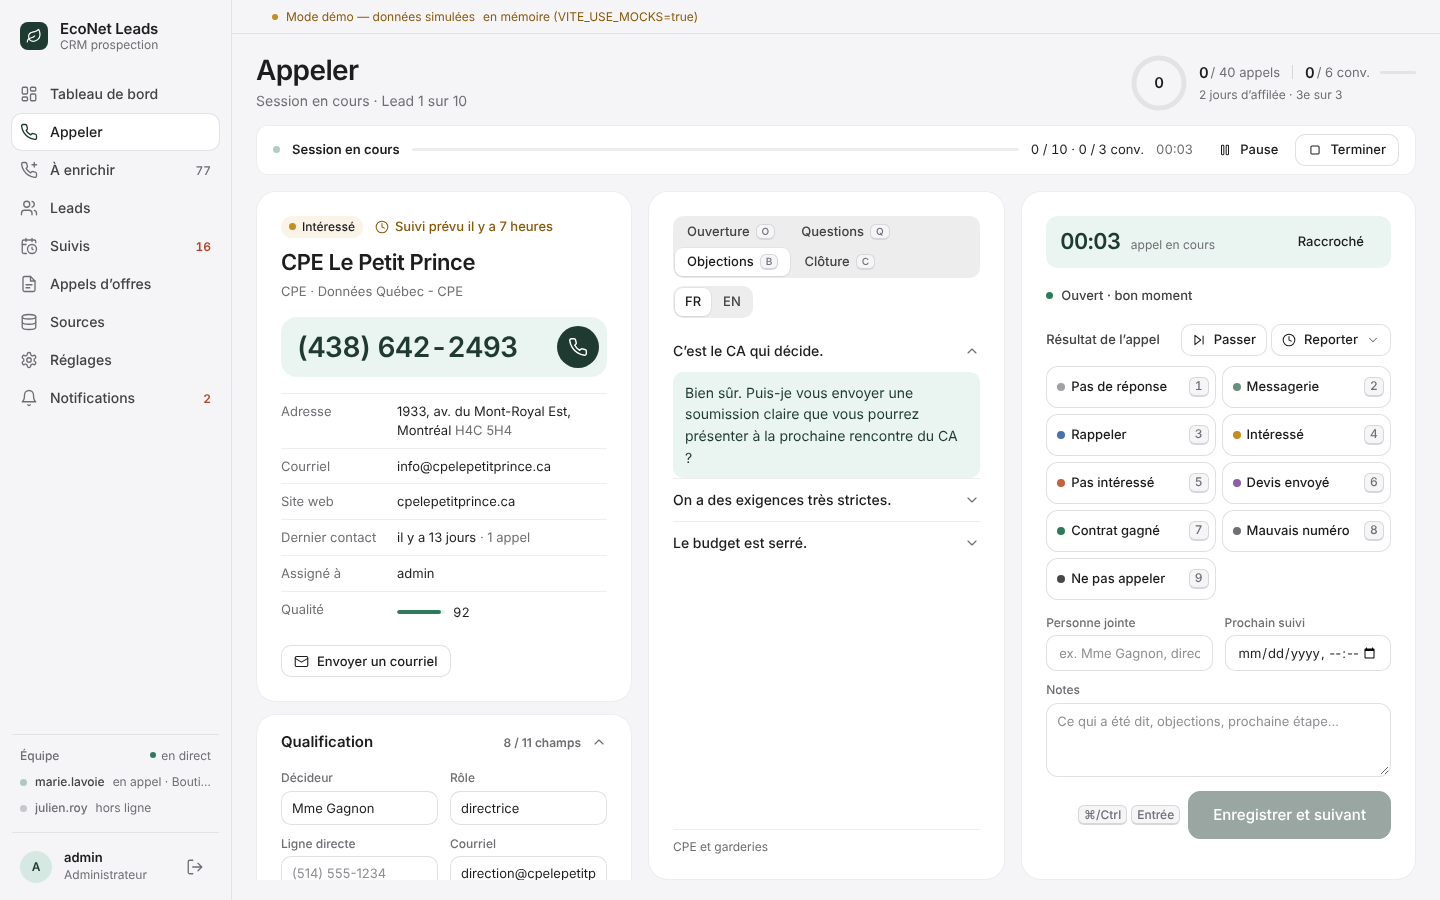
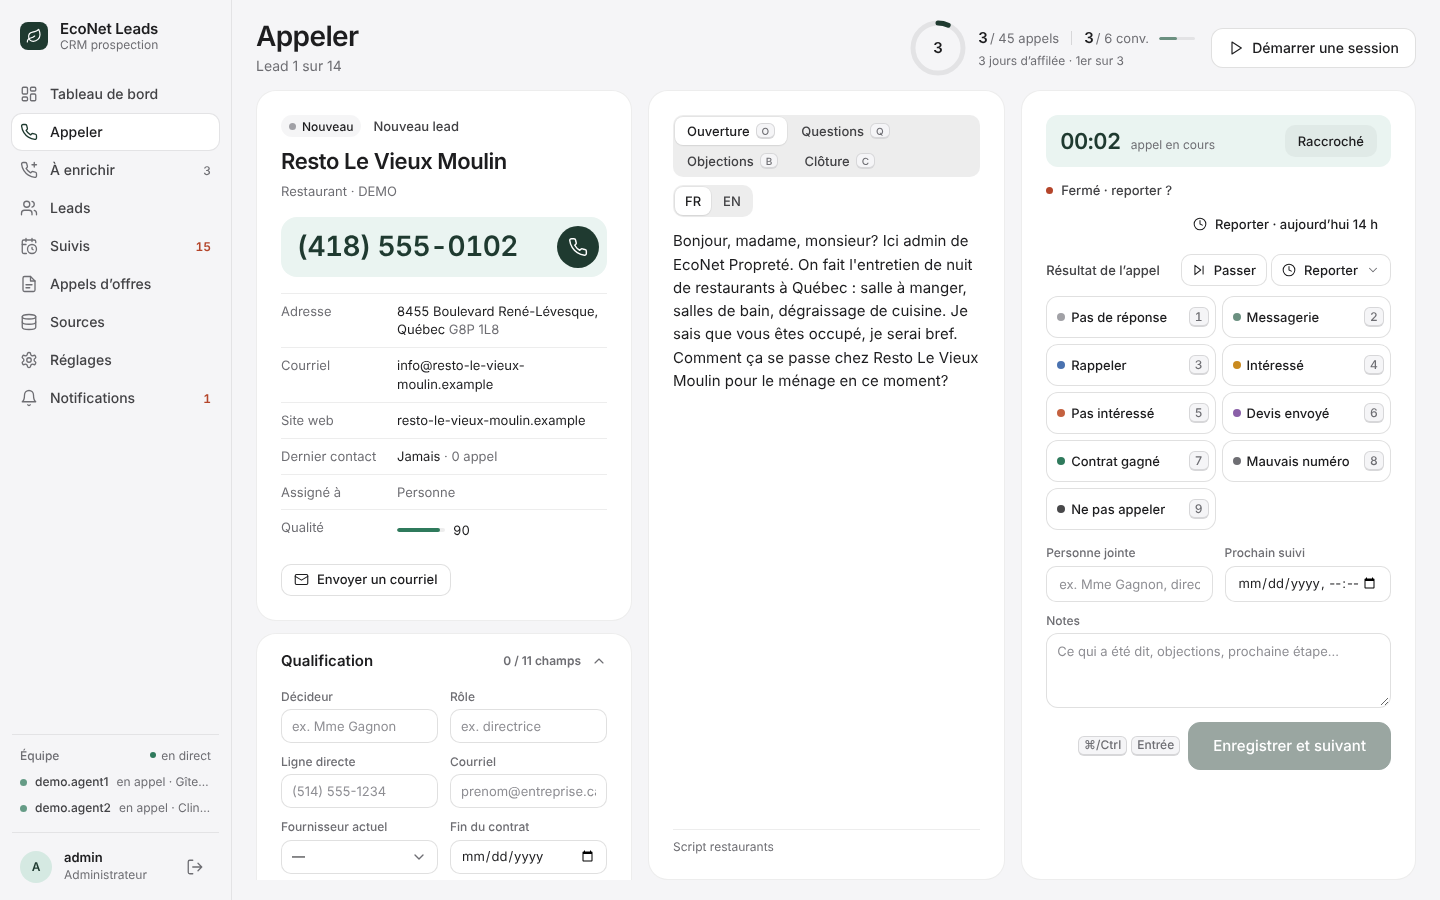
Live verification: dedupe refreshed lead.claimed in the live feed; refresh live screenshots (19-live-two-callers)
Claude-Session: https://claude.ai/code/session_01SVRyKBUX6KUvd5JAhYKG6A

diff --git a/src/live/store.test.ts b/src/live/store.test.ts
@@ -17,6 +17,12 @@ const logged = (id = String(++n)) =>
   ev('call.logged', { contactId: 'c1', leadId: 'l1', leadName: 'CPE Les Lucioles', userId: 'u2', username: 'marie.lavoie', outcome: 'INTERESTED', durationSeconds: 180, at: '2026-10-05T10:03:00' }, id)
 
 describe('liveReducer', () => {
+  it('shows a refreshed claim (same user and lead, new id) once in the feed', () => {
+    let s = liveReducer(initialLiveState, claimed())
+    s = liveReducer(s, claimed())
+    expect(s.activity).toHaveLength(1)
+  })
+
   it('tracks the connection flag without churning state', () => {
     const s1 = liveReducer(initialLiveState, { kind: 'connection', connected: true })
     expect(s1.connected).toBe(true)

diff --git a/src/live/store.ts b/src/live/store.ts
@@ -27,6 +27,8 @@ function isActivity(e: LiveEvent): e is ActivityEvent {
 function pushActivity(list: ActivityEvent[], e: ActivityEvent): ActivityEvent[] {
   // Replays after a reconnect can resend an id we already have.
   if (e.id && list.some((x) => x.id === e.id)) return list
+  // The backend re-broadcasts lead.claimed when a claim is refreshed: show it once.
+  if (e.type === 'lead.claimed' && list.some((x) => x.type === 'lead.claimed' && x.data.userId === e.data.userId && x.data.leadId === e.data.leadId)) return list
   return [e, ...list].slice(0, ACTIVITY_LIMIT)
 }
 
